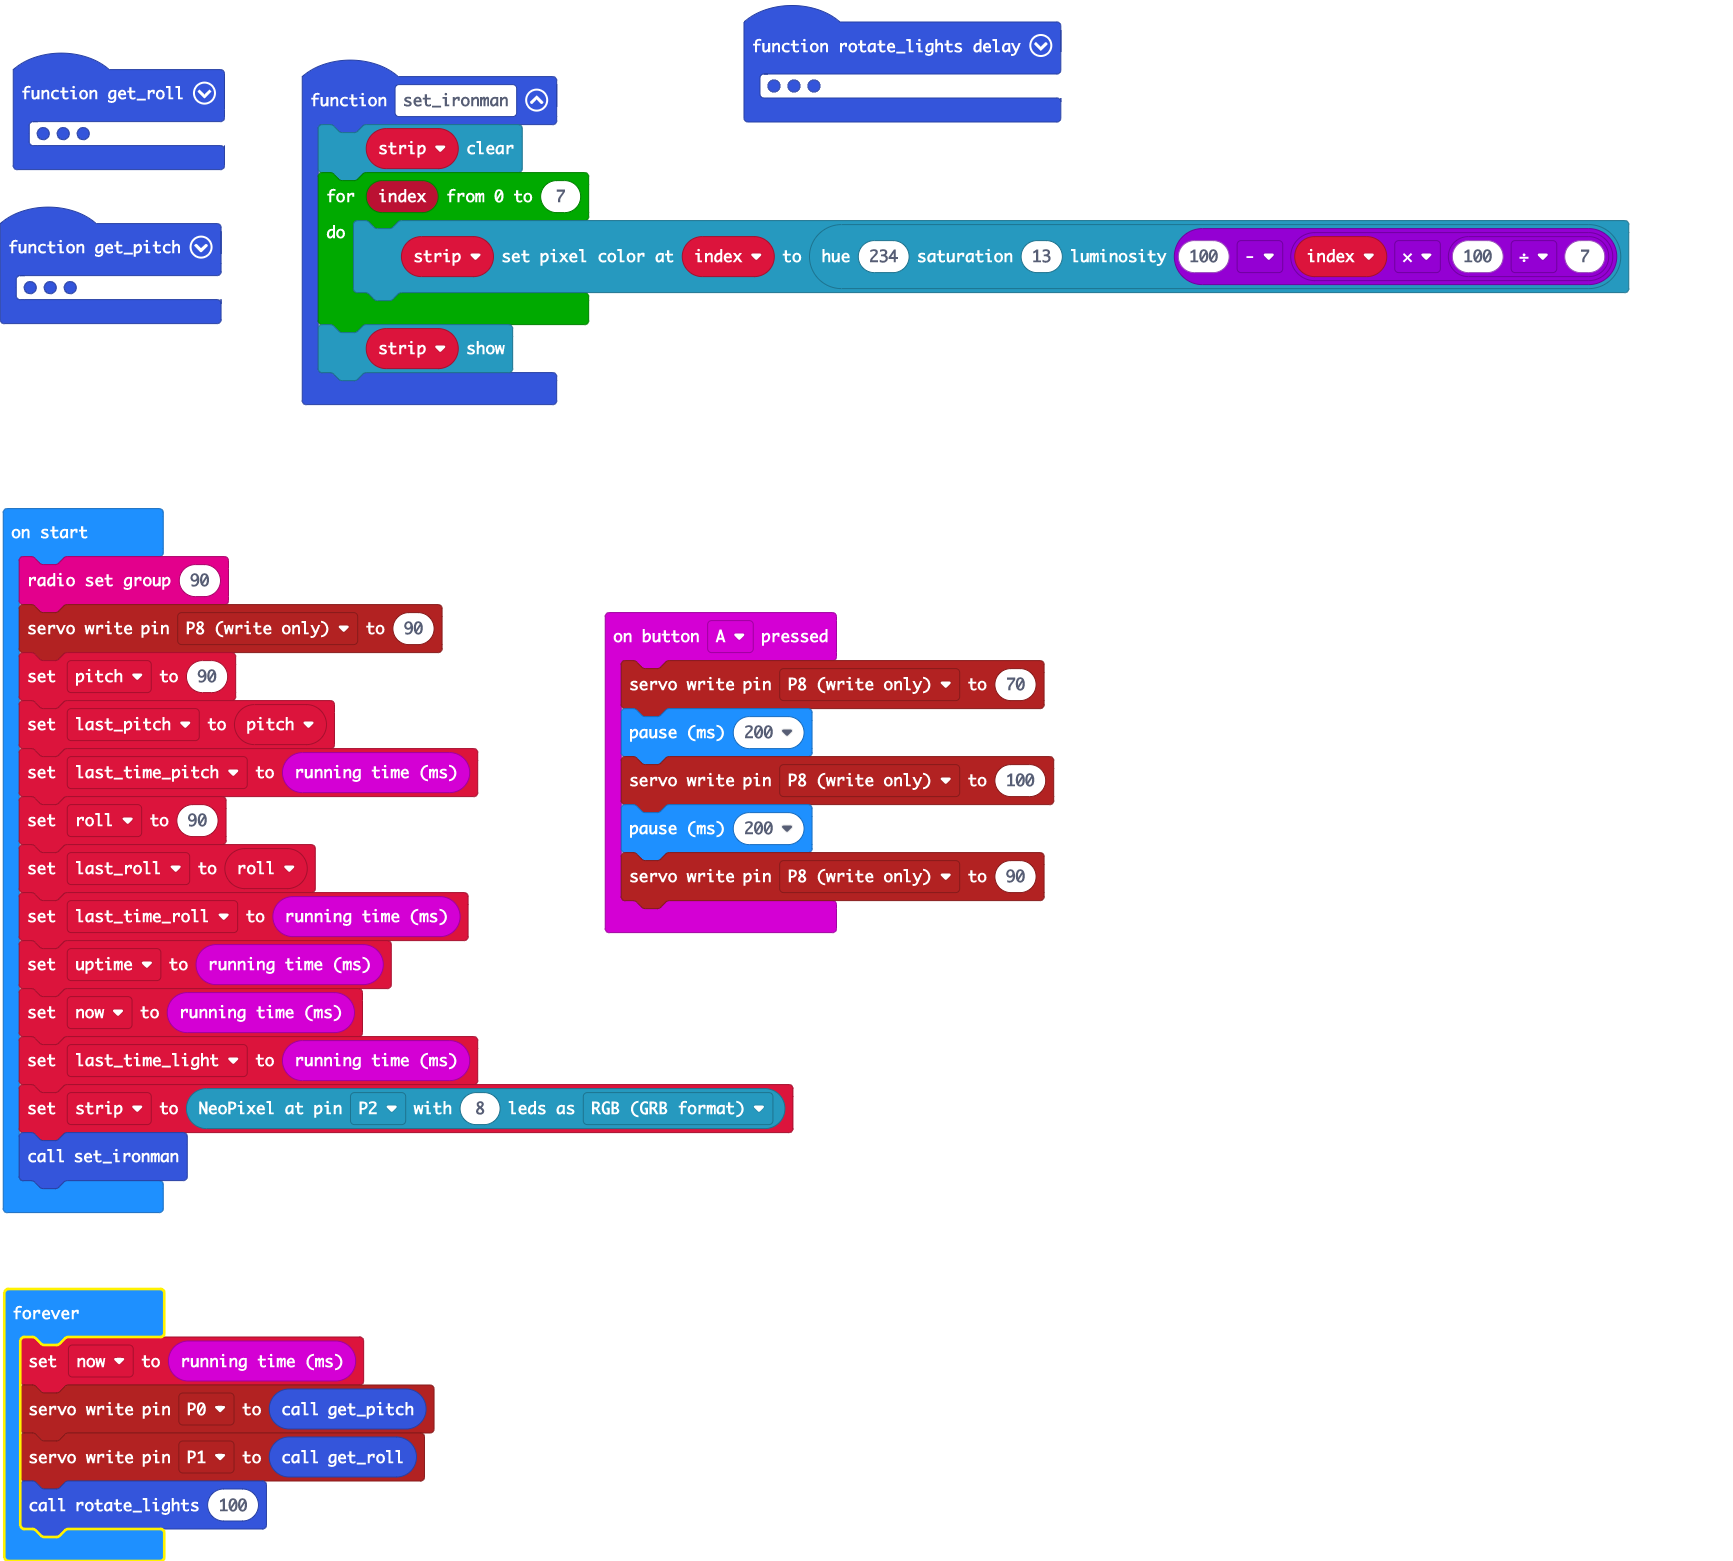
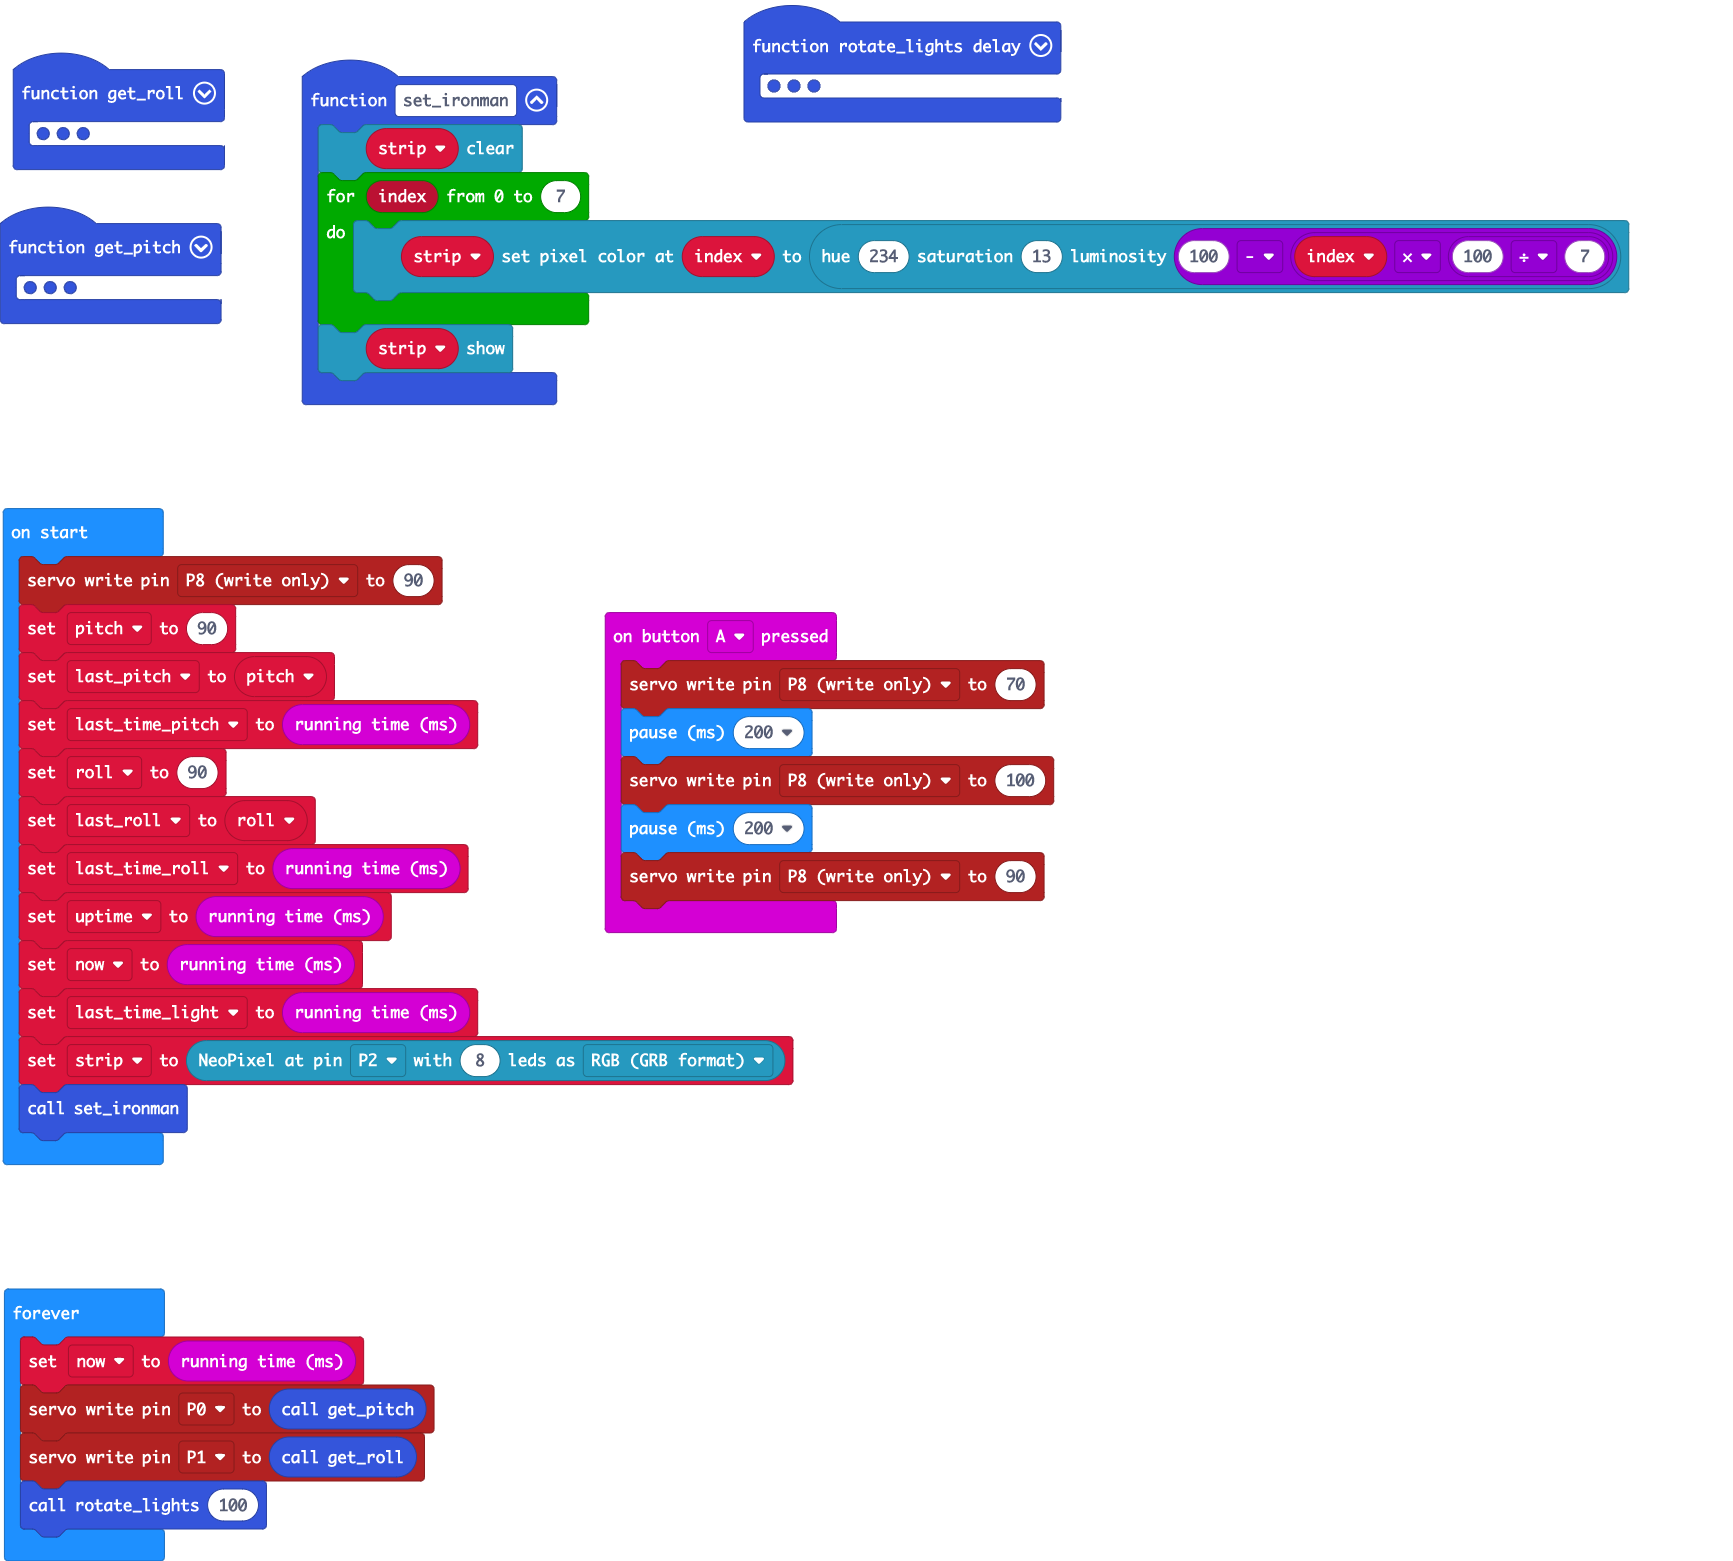
Update main.blocks, main.ts

Changed region(s): [[0.0, 0.3382, 0.4674, 0.7995], [0.0, 0.861, 0.0312, 1.0]]

diff --git a/main.ts b/main.ts
@@ -60,7 +60,6 @@ let roll = 0
 let last_time_pitch = 0
 let last_pitch = 0
 let pitch = 0
-radio.setGroup(90)
 pins.servoWritePin(AnalogPin.P8, 90)
 pitch = 90
 last_pitch = pitch
